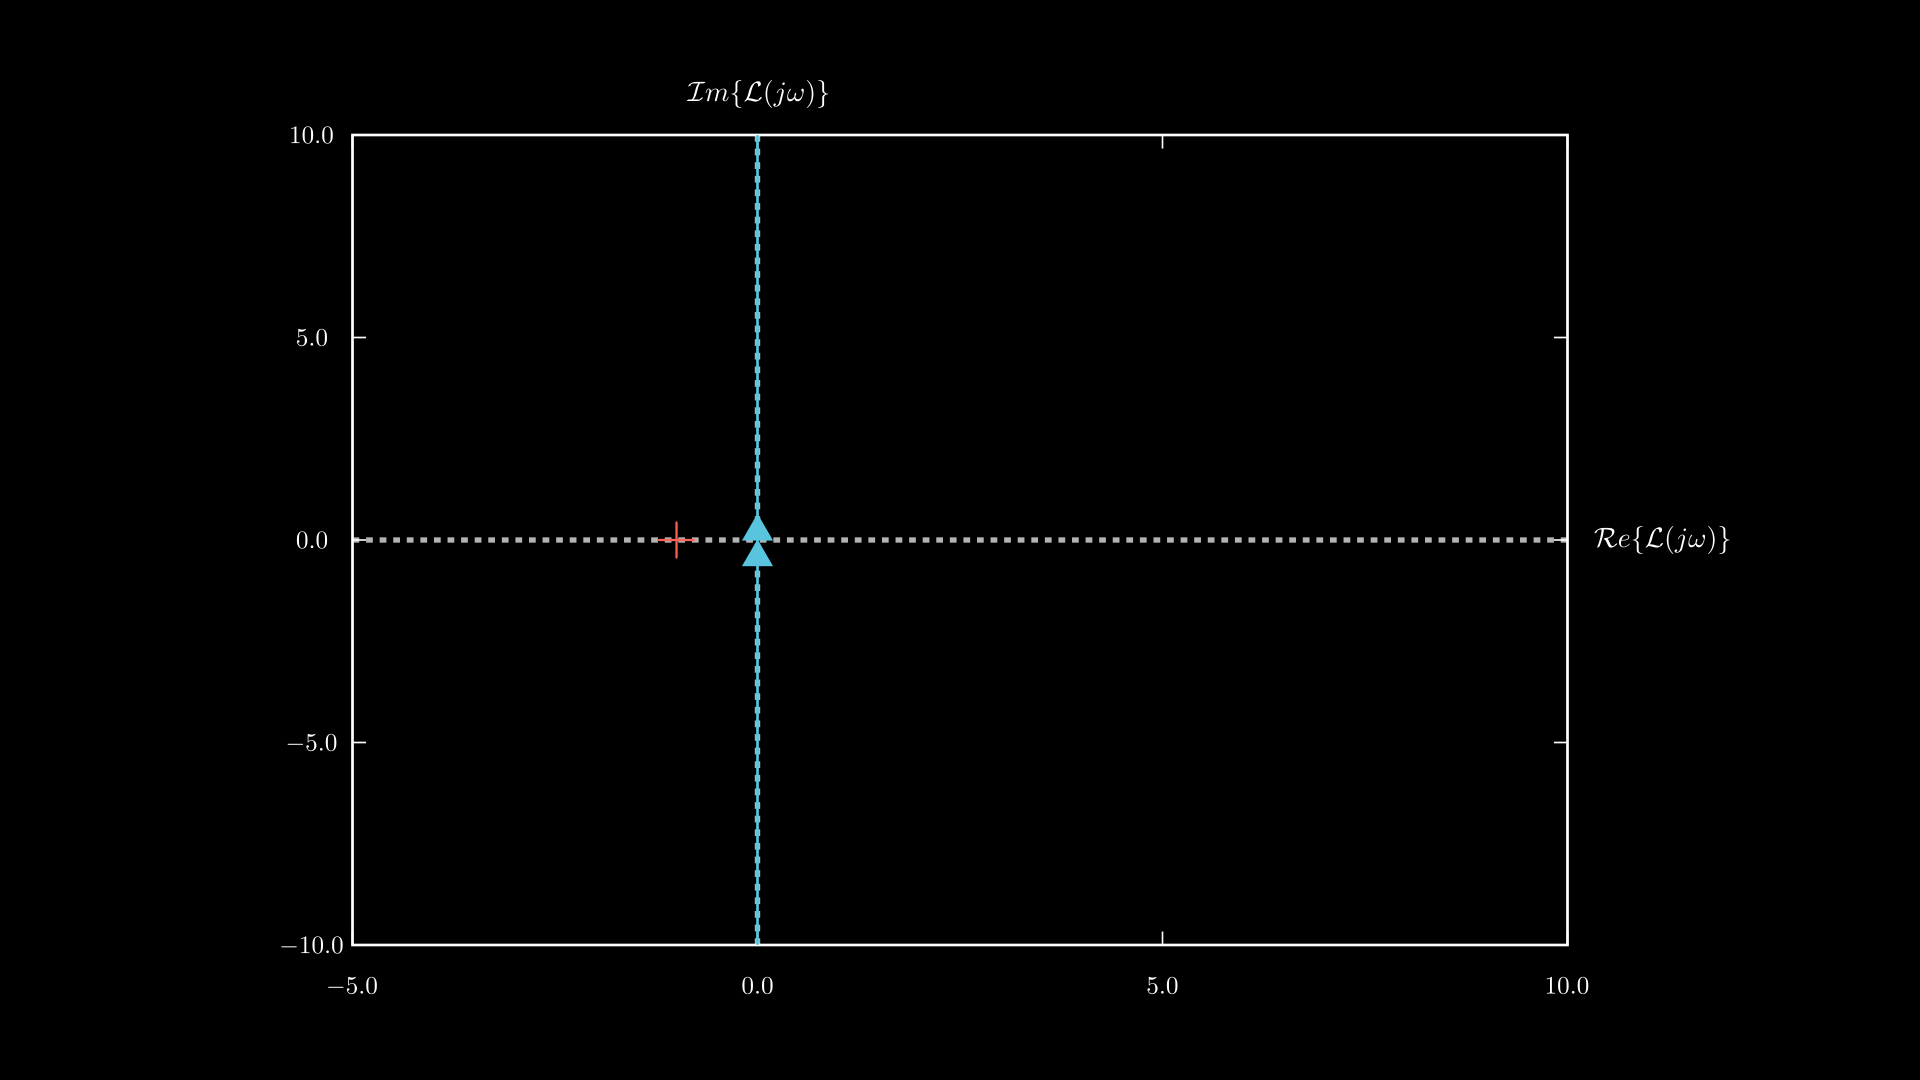
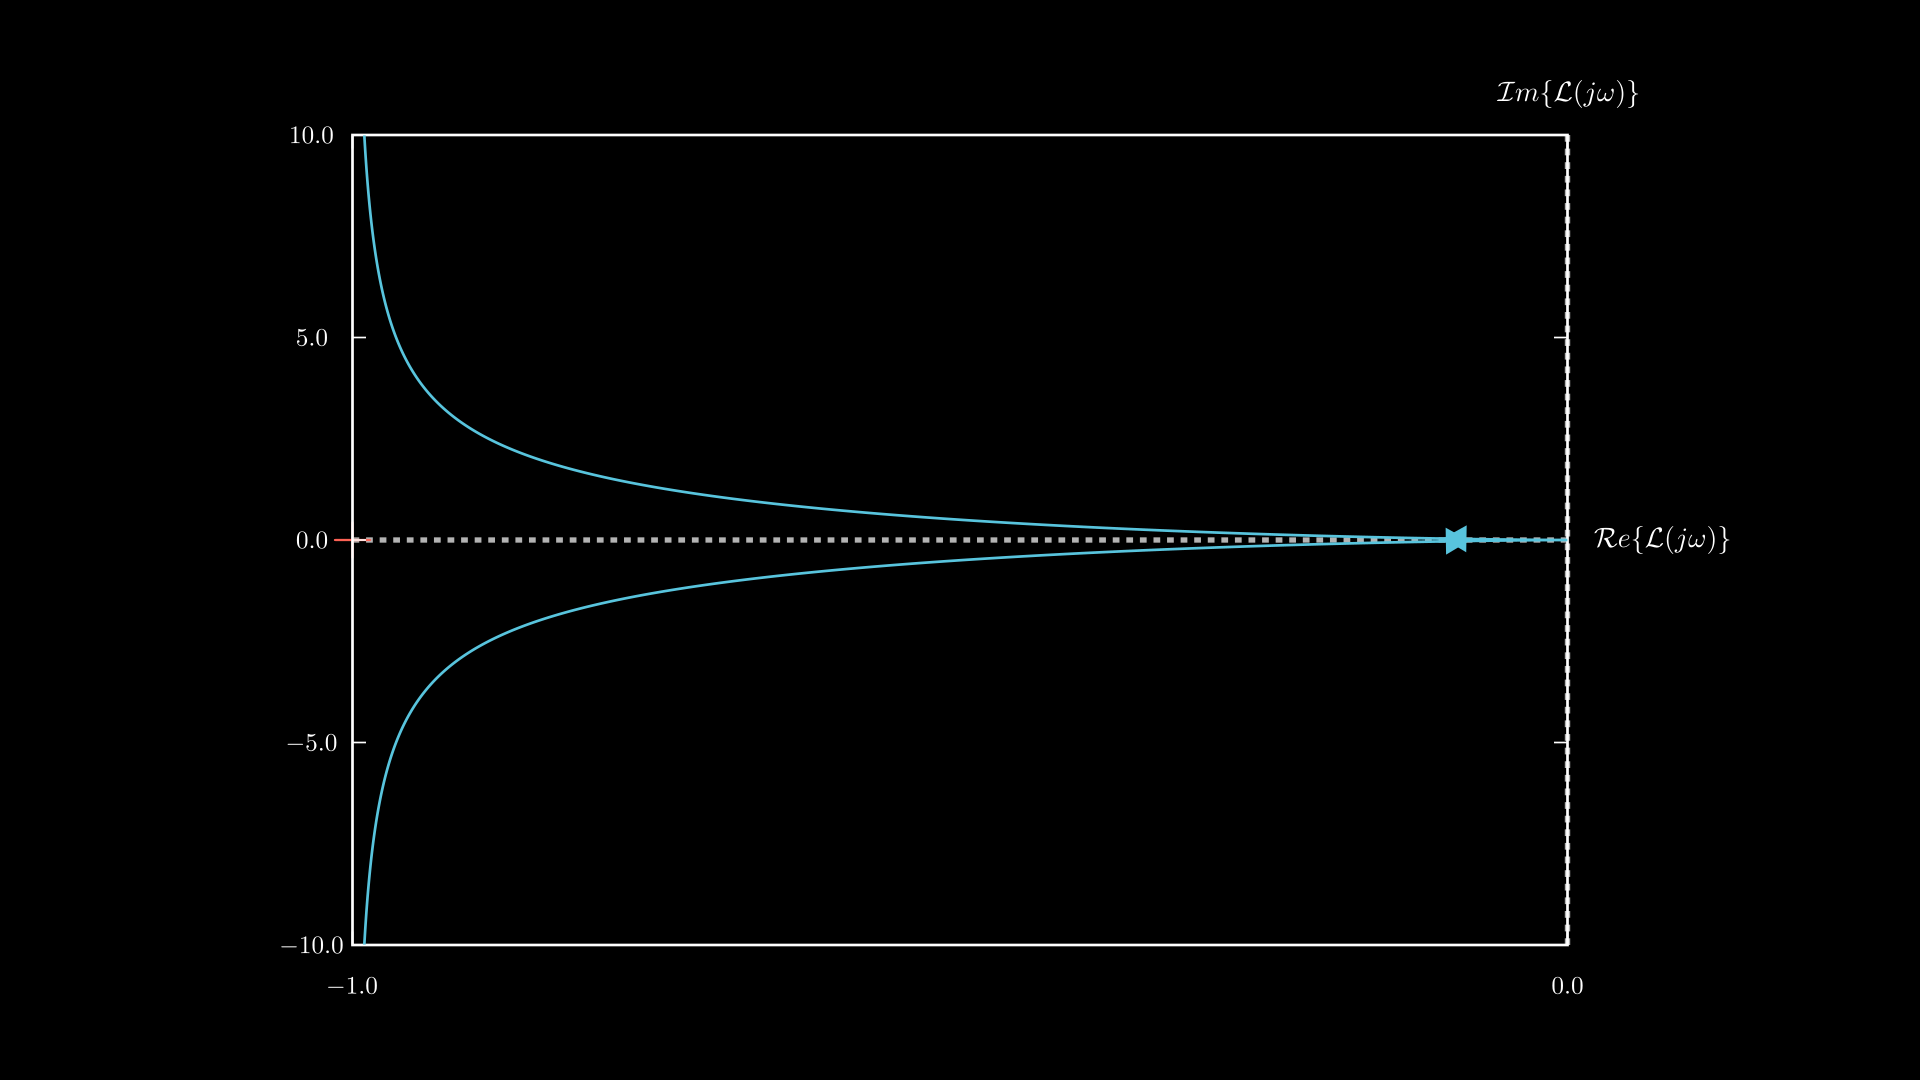
range

diff --git a/controltheorylib/control.py b/controltheorylib/control.py
@@ -2480,8 +2480,8 @@ class Nyquist(VGroup):
             min_freq, max_freq = 0.1, 100
             x_min, x_max = -10, 10
             y_min, y_max = -10, 10
-            re_min, re_max = x_min, x_max # Initialize with default plot ranges
-            im_min, im_max = y_min, y_max # Initialize with default plot ranges
+            re_min, re_max = x_min, x_max 
+            im_min, im_max = y_min, y_max 
 
             # Handle special cases
             if not poles.size and not zeros.size:
@@ -2535,58 +2535,48 @@ class Nyquist(VGroup):
                     
                     # Parameters for sustained divergence detection
                     negative_threshold = -0.5  # negative since magnitude increases as frequency decreases
-                    min_consecutive_points = 500  # Number of consecutive points above threshold 100
+                    min_consecutive_points = 4000  # Number of consecutive points below threshold 
                     
-                    # Find regions of sustained growth
                     below_threshold = growth_rate < negative_threshold
                     # Use convolution to find consecutive points below the negative threshold
                     convolved_divergence = np.convolve(
                         below_threshold,
                         np.ones(min_consecutive_points),
-                        mode='valid' # Use 'valid' mode to get indices where the window fully overlaps
+                        mode='valid' 
                     )
-                    
                     # Find the indices in the convolved result where the condition is met
                     divergent_start_in_convolved = np.where(convolved_divergence >= min_consecutive_points)[0]
                     if len(divergent_start_in_convolved) > 0:
-                        # The last index in divergent_regions_indices + min_consecutive_points - 1
-                        # gives the approximate index in the 'growth_rate' array where
-                        # the sustained negative growth *ends*.
-                        # The corresponding index in the 'response' array is one greater.
                         end_of_divergence_in_growth_rate = divergent_start_in_convolved[0] + min_consecutive_points - 1
                         truncate_start_idx = end_of_divergence_in_growth_rate + 1 # Truncate from this index onwards
 
-                    # Apply truncation: keep the part of the response *after* the low-frequency divergence
                     re_truncated = re[truncate_start_idx:]
                     im_truncated = im[truncate_start_idx:]
-                    truncated=False
-
-                    # Recalculate ranges based on the truncated response
+                    
                     # Ensure arrays are not empty after truncation
-                    if re_truncated.size > 0:
+                    if len(re_truncated) > 0:
                         re_min, re_max = np.min(re_truncated), np.max(re_truncated)
                         im_min, im_max = np.min(im_truncated), np.max(im_truncated)
-                    if self.is_pure_integrator:
-                        re_min, re_max = -2, 10
-                        im_min, im_max = -10, 10
-
-
-                    #if self.is_pure_integrator:
-                        #re_min, re_max = -2, 10
-                        #im_min, im_max = -10, 10
                 
-                    x_min = re_min 
-                    x_max = re_max 
-                    max_abs_im = max(abs(im_min), abs(im_max))
-                    y_min = -max_abs_im 
-                    y_max = max_abs_im
+                        if self.is_pure_integrator:
+                            re_min, re_max = -2, 10
+                            im_min, im_max = -10, 10
+                    else:
+                        re_min, re_max = (-1.5, 0.5) if self.is_pure_integrator else (-10, 10)
+                        im_min, im_max = (-1, 1) if self.is_pure_integrator else (-10, 10)
+                
+                x_min = re_min 
+                x_max = re_max 
+                max_abs_im = max(abs(im_min), abs(im_max))
+                y_min = -max_abs_im 
+                y_max = max_abs_im
 
             if self._is_proper() and num_poles_at_zero==0:
-                # Include ω=0 and ω=∞ for proper systems (closed contour)
-                if not any(np.isclose(poles, 0)):  # Skip if integrator (diverges at ω=0)
+
+                if not any(np.isclose(poles, 0)):  
                     w_extended = np.logspace(
                         np.log10(min_freq), 
-                        np.log10(max_freq * 10),  # Extend to capture ω→∞ behavior
+                        np.log10(max_freq * 10),  
                         10000)
                     _, response_ext = signal.freqresp(self.system, w_extended)
                     re = np.concatenate([re, np.real(response_ext)])
@@ -2882,12 +2872,12 @@ class Nyquist(VGroup):
         # Ensure there are enough points in the positive frequency part before placing an arrow
         if len(all_pos_points) >= point_skip + 1:
             
-            start_dir_idx = int(len(all_pos_points) * 0.5)
+            start_dir_idx = int(len(all_pos_points)*0.5)
             end_dir_idx = start_dir_idx + point_skip
 
             # Ensure indices are within bounds
-            start_dir_idx = max(0, min(start_dir_idx, len(all_pos_points) - point_skip - 1))
-            end_dir_idx = start_dir_idx + point_skip # Recalculate end based on adjusted start
+            #start_dir_idx = max(0, min(start_dir_idx, len(all_pos_points) - point_skip - 1))
+            #end_dir_idx = start_dir_idx + point_skip # Recalculate end based on adjusted start
 
             # Ensure start is before end
             if start_dir_idx >= end_dir_idx:
@@ -2920,7 +2910,7 @@ class Nyquist(VGroup):
         # Ensure there are enough points in the negative frequency part before placing an arrow
         if len(all_neg_points) >= point_skip + 1:
         
-            point1_idx_neg = int(len(all_neg_points) * 0.5)
+            point1_idx_neg = int(len(all_neg_points)*0.5)
             point2_idx_neg = point1_idx_neg + point_skip
 
             # Ensure indices are within bounds for all_neg_points

diff --git a/examples/NyquistPlot/Nyquistplot.py b/examples/NyquistPlot/Nyquistplot.py
@@ -7,7 +7,7 @@ class Nyquistplot(Scene):
         
         s = sp.symbols('s')
         num = 1
-        den = s
+        den = s*(s+1)
         system = (num, den)
         nyquist = Nyquist(system, show_minus_one_label=False,
                           y_axis_label=r"\mathcal{I}m\{\mathcal{L}(j\omega)\}",
